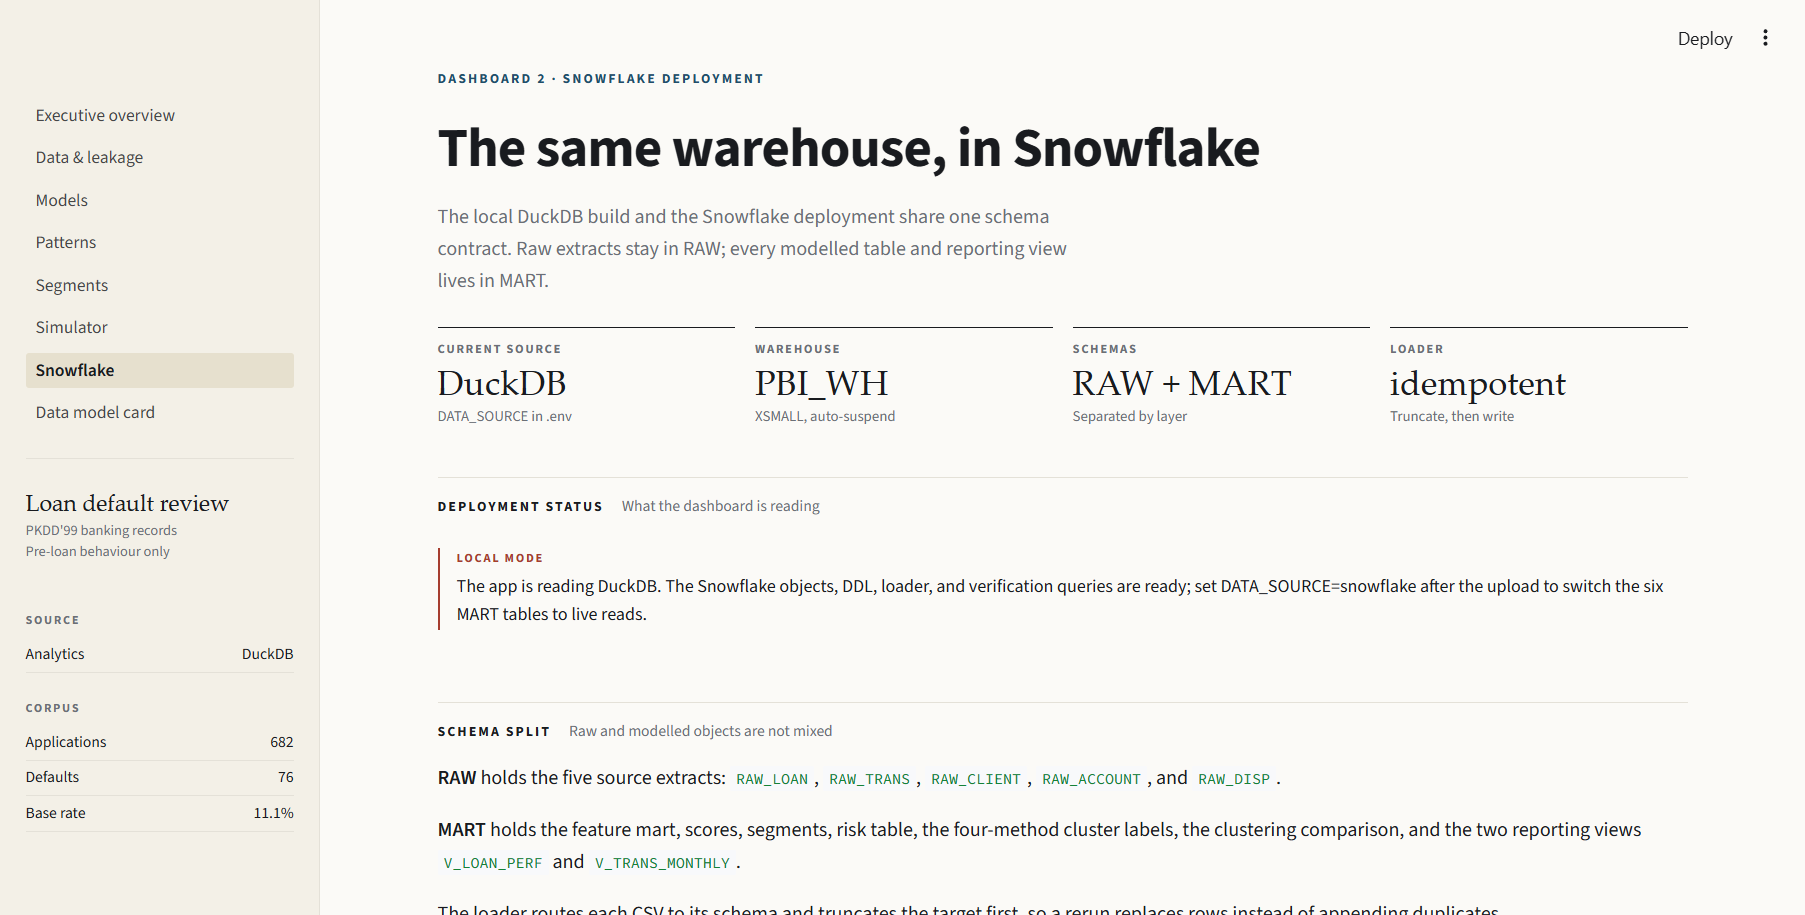
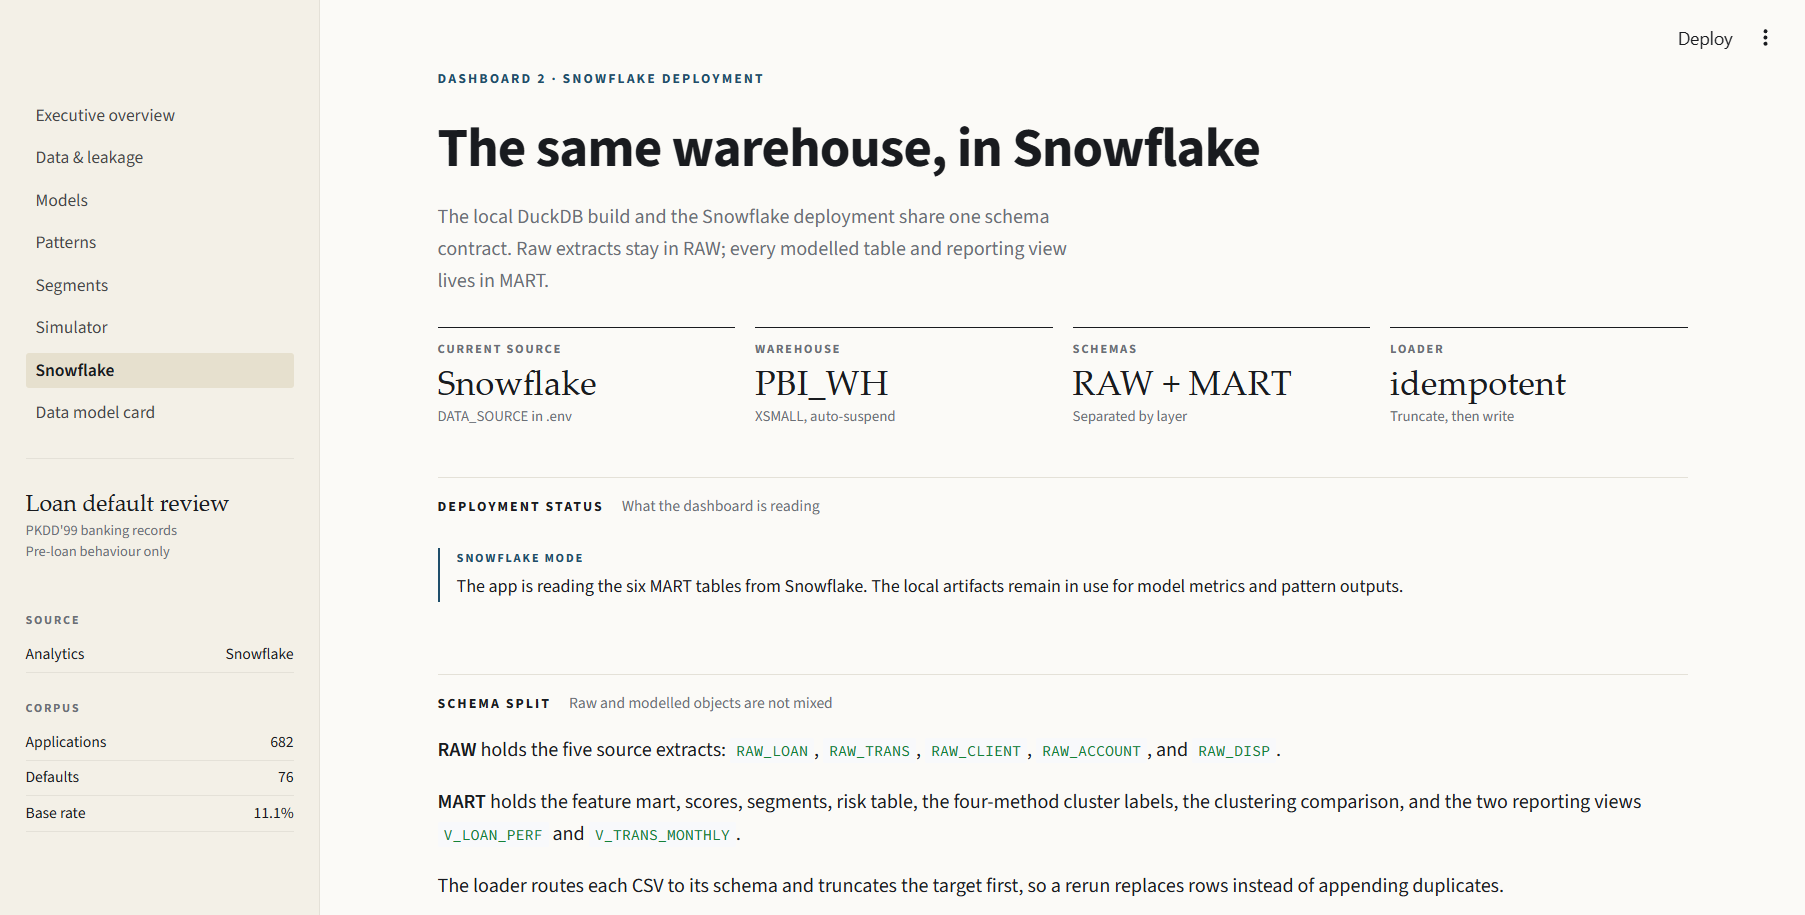
fix: Snowflake-mode app rendering and live dashboard capture

diff --git a/scripts/fix_snowflake_network_policy.py b/scripts/fix_snowflake_network_policy.py
@@ -1,0 +1,75 @@
+"""Attach a network policy so the PAT can log in, then verify the token.
+
+Run: venv\\Scripts\\python.exe scripts\\fix_snowflake_network_policy.py
+It prompts for a fresh 6-digit TOTP code (30-second window).
+"""
+from __future__ import annotations
+
+import getpass
+import os
+import re
+import sys
+import urllib.request
+from pathlib import Path
+
+import snowflake.connector
+from dotenv import load_dotenv
+
+ROOT = Path(__file__).resolve().parents[1]
+load_dotenv(ROOT / ".env")
+
+POLICY = "DWDM_DASHBOARD_NP"
+
+code = getpass.getpass("Snowflake TOTP code (6 digits): ").strip()
+if not code.isdigit() or len(code) != 6:
+    raise SystemExit("Enter a 6-digit TOTP code")
+
+try:
+    ip = urllib.request.urlopen("https://api.ipify.org", timeout=10).read().decode().strip()
+    if not re.fullmatch(r"\d+\.\d+\.\d+\.\d+", ip):
+        raise ValueError(ip)
+    print(f"Public IP: {ip}")
+except Exception:
+    ip = input("Could not detect public IP. Enter it manually: ").strip()
+    if not re.fullmatch(r"\d+\.\d+\.\d+\.\d+", ip):
+        raise SystemExit("Invalid IP address")
+
+user = os.environ["SNOWFLAKE_USER"]
+if not re.fullmatch(r"[A-Za-z0-9_]+", user):
+    raise SystemExit("SNOWFLAKE_USER contains unexpected characters")
+
+print("Connecting with password + TOTP...", flush=True)
+conn = snowflake.connector.connect(
+    account=os.environ["SNOWFLAKE_ACCOUNT"],
+    user=user,
+    role=os.environ["SNOWFLAKE_ROLE"],
+    warehouse=os.environ.get("SNOWFLAKE_WAREHOUSE", "PBI_WH"),
+    database=os.environ.get("SNOWFLAKE_DATABASE", "LOAN_DEFAULT_DW"),
+    schema=os.environ.get("SNOWFLAKE_SCHEMA", "RAW"),
+    authenticator="username_password_mfa",
+    password=os.environ["SNOWFLAKE_PASSWORD"],
+    passcode=code,
+)
+cur = conn.cursor()
+try:
+    cur.execute(
+        f"CREATE OR REPLACE NETWORK POLICY {POLICY} ALLOWED_IP_LIST = ('{ip}/32')"
+    )
+    print(f"Created network policy {POLICY} for {ip}/32", flush=True)
+    cur.execute(f"ALTER USER {user} SET NETWORK_POLICY = {POLICY}")
+    print(f"Attached {POLICY} to user {user}", flush=True)
+except snowflake.connector.errors.ProgrammingError as exc:
+    print(f"DDL failed (need SECURITYADMIN/ACCOUNTADMIN privileges?): {exc}")
+    raise SystemExit(1)
+finally:
+    cur.close()
+    conn.close()
+
+print("Verifying PAT...", flush=True)
+sys.path.insert(0, str(ROOT / "app"))
+from data_access import snowflake_query
+
+df = snowflake_query(
+    "SELECT COUNT(*) AS row_count FROM LOAN_DEFAULT_DW.MART.MART_LOAN_FEATURES"
+)
+print(f"PAT works. Feature rows: {int(df.iloc[0, 0])}")

diff --git a/app/views/snowflake.py b/app/views/snowflake.py
@@ -33,9 +33,9 @@ INVENTORY = pd.DataFrame(
 )
 
 LIVE_COUNTS = """
-SELECT 'RAW.RAW_CLIENT' AS table_name, COUNT(*) AS rows
+SELECT 'RAW.RAW_CLIENT' AS table_name, COUNT(*) AS row_count
 FROM LOAN_DEFAULT_DW.RAW.RAW_CLIENT
-UNION ALL SELECT 'RAW.RAW_ACCOUNT', COUNT(*) FROM LOAN_DEFAULT_DW.RAW.RAW_ACCOUNT
+UNION ALL SELECT 'RAW.RAW_ACCOUNT', COUNT(*) AS row_count FROM LOAN_DEFAULT_DW.RAW.RAW_ACCOUNT
 UNION ALL SELECT 'RAW.RAW_DISP', COUNT(*) FROM LOAN_DEFAULT_DW.RAW.RAW_DISP
 UNION ALL SELECT 'RAW.RAW_LOAN', COUNT(*) FROM LOAN_DEFAULT_DW.RAW.RAW_LOAN
 UNION ALL SELECT 'RAW.RAW_TRANS', COUNT(*) FROM LOAN_DEFAULT_DW.RAW.RAW_TRANS

diff --git a/app/data_access.py b/app/data_access.py
@@ -92,7 +92,9 @@ def snowflake_query(sql: str, params: list | None = None) -> pd.DataFrame:
     cursor = con.cursor()
     try:
         cursor.execute(sql, params or [])
-        return cursor.fetch_pandas_all()
+        frame = cursor.fetch_pandas_all()
+        frame.columns = frame.columns.str.lower()
+        return frame
     finally:
         cursor.close()
 
